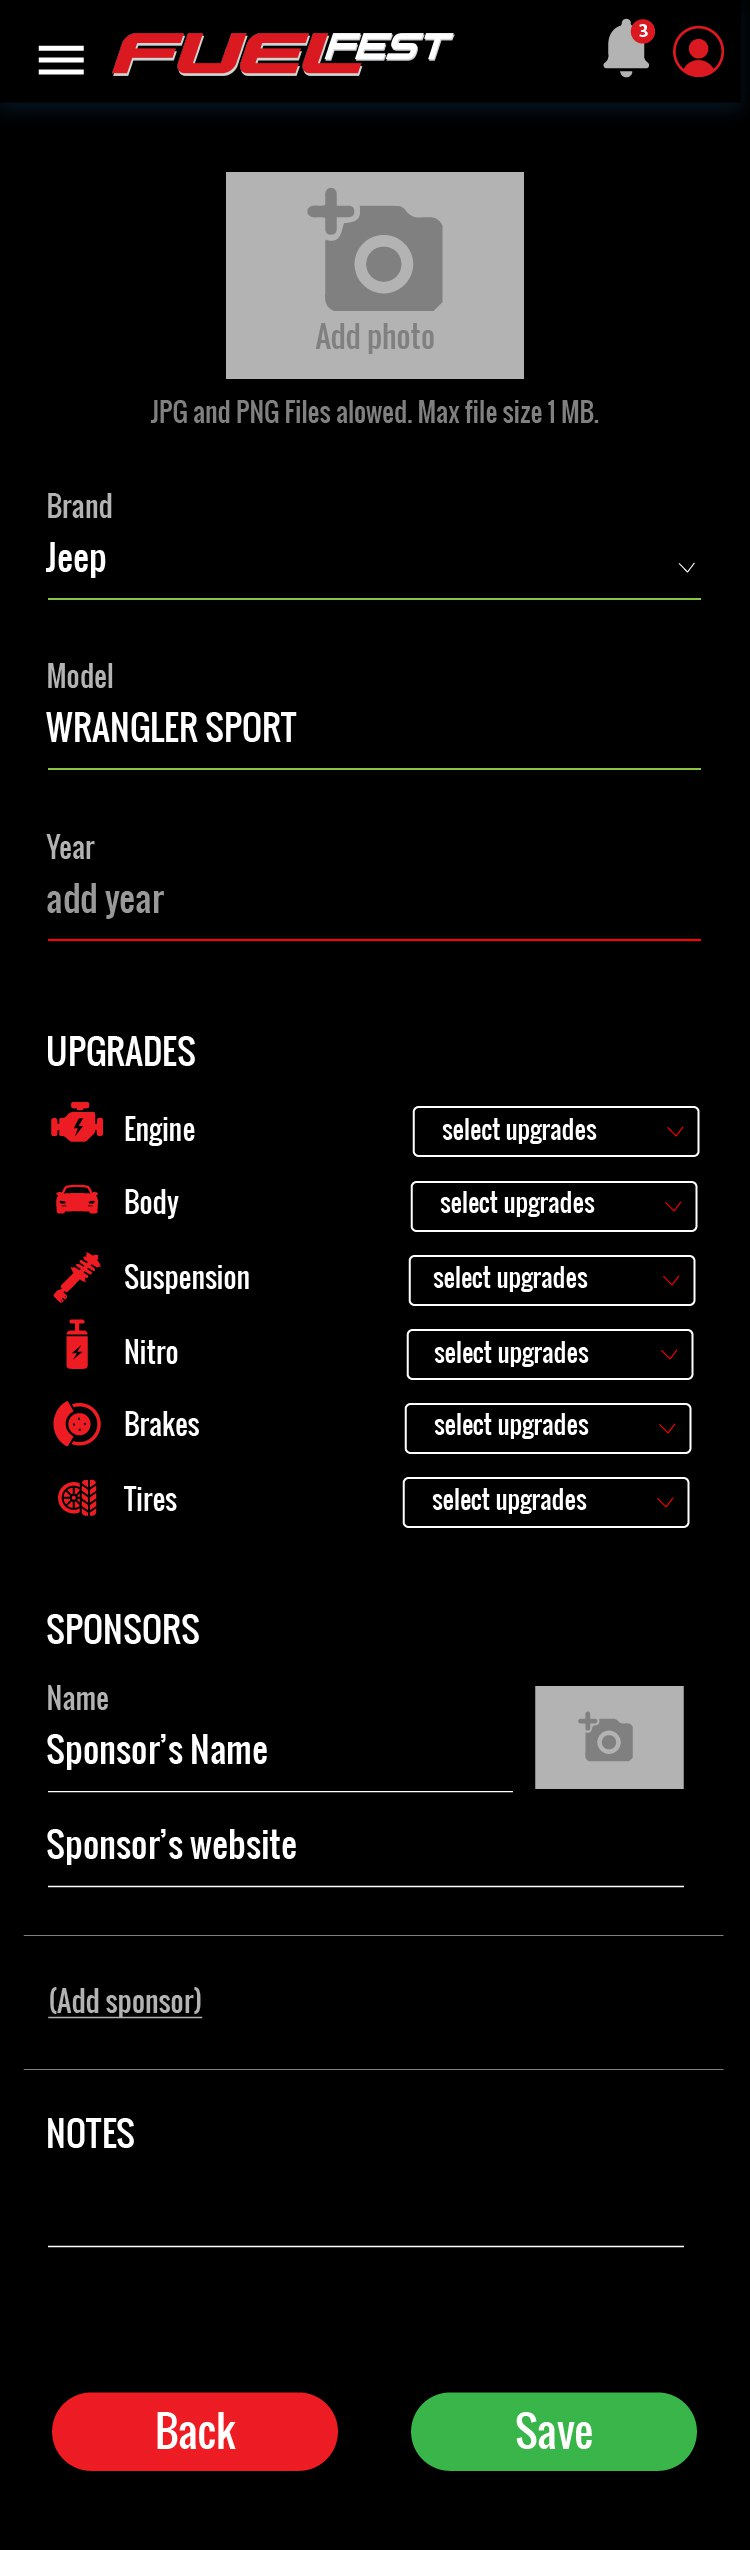
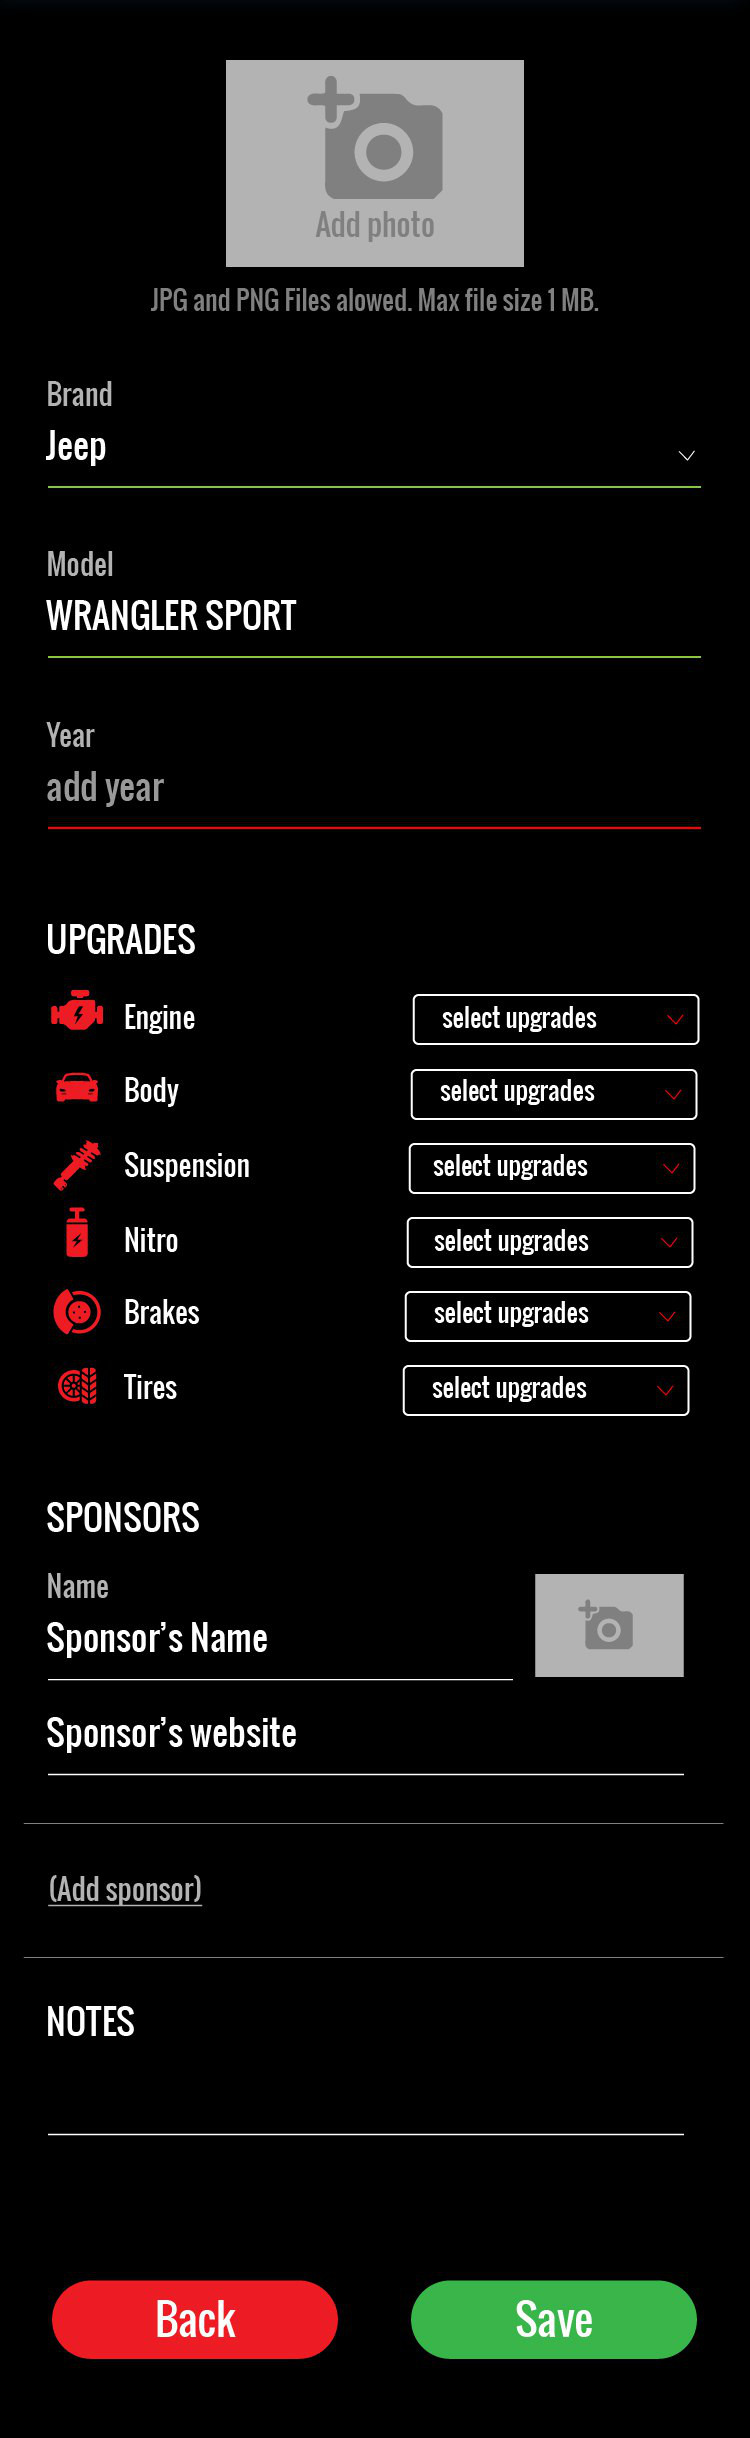
Fixed lower margin of MainContainer

diff --git a/client/src/components/BottomNav.jsx b/client/src/components/BottomNav.jsx
@@ -1,55 +1,49 @@
 import React from "react";
-
 import style from "./css/BottomNav.module.css";
 import { NavLink } from "react-router-dom";
 import { icons } from "../common/icons.js";
-import homeIcon from "../icons/navigation/home-on.svg";
 
 export default function BottomNav() {
   return (
     <div className={style.bottomContainer}>
       <ul className={style.bottomNav}>
         <li className={style.bottomNav_item}>
-          <NavLink to="/">
-            {/* <img alt="" src={icons.navigation.home.on} /> */}
-            <span className="material-symbols-outlined">home</span>
+          <NavLink
+            to="/"
+            className={style.icon}
+            activeClassName={style.iconActive}
+          >
+            <img alt="" src={icons.tempNav.home} />
           </NavLink>
         </li>
         <li className={style.bottomNav_item}>
-          <NavLink to="/wallet">
-            <span className="material-symbols-outlined">wallet</span>
+          <NavLink
+            to="/wallet"
+            className={style.icon}
+            activeClassName={style.iconActive}
+          >
+            <img alt="" src={icons.tempNav.wallet} />
           </NavLink>
         </li>
         <li className={style.bottomNav_item}>
-          <span className="material-symbols-outlined">qr_code</span>
+          <NavLink
+            to="/"
+            className={style.icon}
+            activeClassName={style.iconActive}
+          >
+            <img alt="" src={icons.tempNav.qr} />
+          </NavLink>
         </li>
         <li className={style.bottomNav_item}>
-          <span className="material-symbols-outlined">favorite</span>
+          <NavLink
+            to="/"
+            className={style.icon}
+            activeClassName={style.iconActive}
+          >
+            <img alt="" src={icons.tempNav.favorite} />
+          </NavLink>
         </li>
       </ul>
     </div>
   );
-}
-{
-  /* <BottomNavigation style={styleContainer}>
-        <BottomNavigationAction
-          label="Home"
-          icon={<HomeIcon style={styleIcons} />}
-          value={"home"}
-          onChange={(e) => handleChange}
-          // icon={<SvgIcon path={homeIcon} color="#fff" />}
-        />
-        <BottomNavigationAction
-          label="Wallet"
-          icon={<AccountBalanceWalletIcon style={styleIcons} />}
-        />
-        <BottomNavigationAction
-          label="QR"
-          icon={<QrCodeIcon style={styleIcons} />}
-        />
-        <BottomNavigationAction
-          label="Favorites"
-          icon={<FavoriteIcon style={styleIcons} />}
-        />
-      </BottomNavigation> */
 }

diff --git a/client/src/common/icons.js b/client/src/common/icons.js
@@ -39,6 +39,11 @@ import qrOn from "../icons/navigation/qr-on.svg";
 import qrOff from "../icons/navigation/qr-off.svg";
 import favoritesOn from "../icons/navigation/favorites-on.svg";
 import favoritesOff from "../icons/navigation/favorites-off.svg";
+//TEMPNAV
+import home from "../icons/navigation/home_FILL0_wght400_GRAD0_opsz48.svg";
+import wallet from "../icons/navigation/wallet_FILL0_wght400_GRAD0_opsz48.svg";
+import qr_code_scanner from "../icons/navigation/qr_code_scanner_FILL0_wght400_GRAD0_opsz48.svg";
+import favorite from "../icons/navigation/favorite_FILL0_wght400_GRAD0_opsz48.svg";
 
 export const icons = {
   owner,
@@ -54,5 +59,11 @@ export const icons = {
     wallet: { on: walletOn, off: walletOff },
     qr: { on: qrOn, off: qrOff },
     favorite: { on: favoritesOn, off: favoritesOff },
+  },
+  tempNav: {
+    home,
+    wallet,
+    qr: qr_code_scanner,
+    favorite,
   },
 };

diff --git a/client/src/components/css/BottomNav.module.css b/client/src/components/css/BottomNav.module.css
@@ -1,17 +1,25 @@
 .bottomContainer {
-  height: 35px;
-  background-color: black;
+  /* height: 35px; */
+  background-color: rgb(0, 0, 0);
   position: fixed;
   bottom: 0;
   width: 100%;
 }
-.bottomNav_item {
-  display: flex;
-  align-items: center;
-}
+
 .bottomNav {
   display: flex;
   justify-content: space-around;
   align-items: center;
-  margin-top: 5px;
+}
+.bottomNav_item {
+  padding: 7px;
+  width: 42px;
+}
+.icon {
+  filter: invert(84%) sepia(0%) saturate(173%) hue-rotate(184deg)
+    brightness(104%) contrast(93%);
+}
+.iconActive {
+  filter: invert(17%) sepia(100%) saturate(3383%) hue-rotate(348deg)
+    brightness(86%) contrast(98%);
 }

diff --git a/client/src/assets/MainContainer.jsx b/client/src/assets/MainContainer.jsx
@@ -7,6 +7,7 @@ const StyledMain = styled.main`
   padding: 10px;
   color: ${(props) => props.theme.white};
   background-color: ${(props) => props.theme.black};
+  margin-bottom: 50px;
   /* overflow-y: scroll; */
   /* IE and Edge */
   /* -ms-overflow-style: none;  */

diff --git a/client/src/App.js b/client/src/App.js
@@ -1,5 +1,4 @@
 import { Route, Routes } from "react-router-dom";
-
 import "./App.css";
 import BottomNav from "./components/BottomNav.jsx";
 import Events from "./components/Events.jsx";
